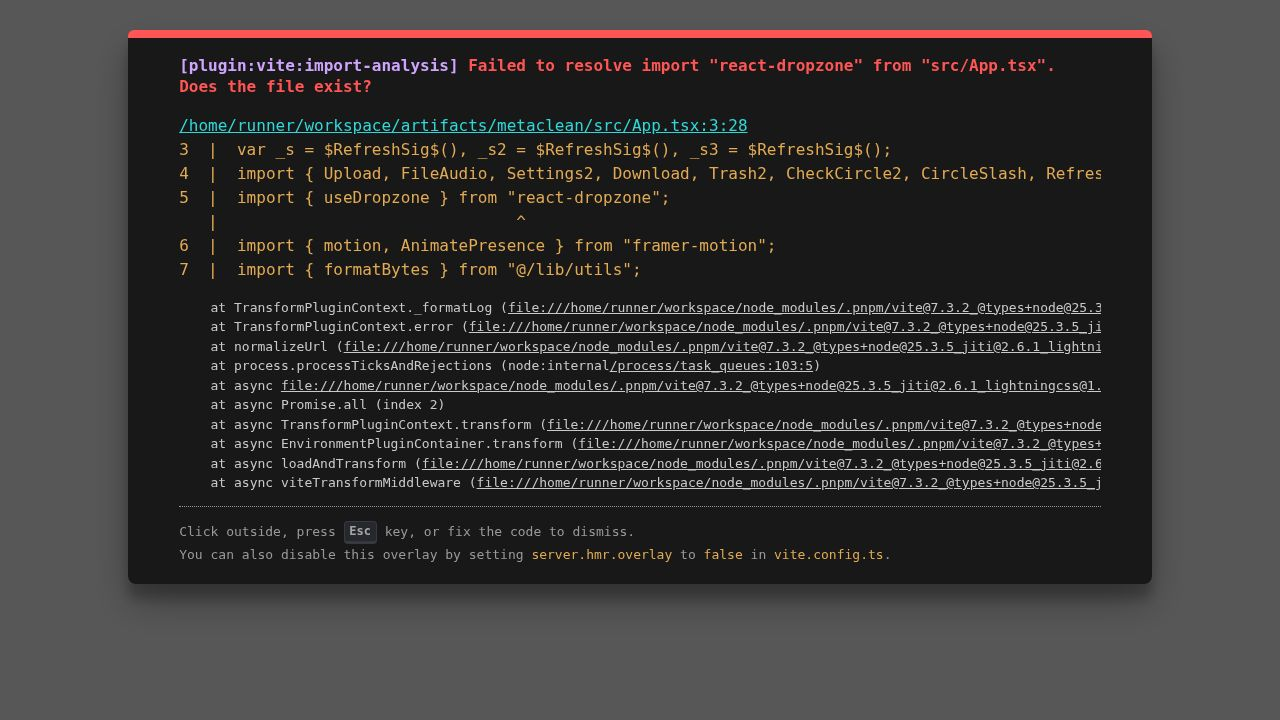
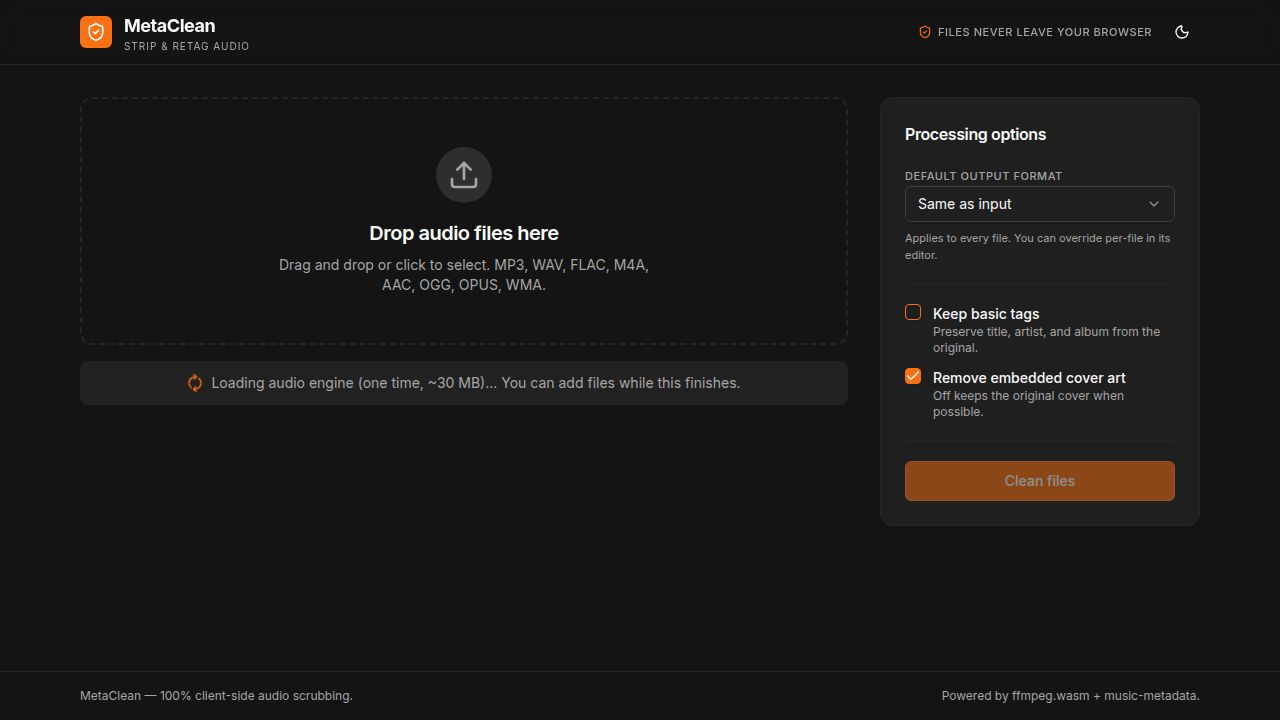
Serve audio engine locally for faster loading times
Updates package.json to include @user/core, adds scripts to copy ffmpeg files to the public directory, and modifies ffmpeg.ts to serve these files locally instead of from unpkg.

Replit-Commit-Author: Agent
Replit-Commit-Session-Id: 36de9a01-7810-4d73-9e41-3d7a48871136
Replit-Commit-Checkpoint-Type: full_checkpoint
Replit-Commit-Event-Id: a74d40dd-1d9e-4b38-b65d-4171ad2eed7c
Replit-Commit-Screenshot-Url: https://storage.googleapis.com/screenshot-production-us-central1/039e52b5-04ed-4d23-a232-9a322d761c58/36de9a01-7810-4d73-9e41-3d7a48871136/hHobfFM
Replit-Helium-Checkpoint-Created: true

diff --git a/artifacts/metaclean/src/lib/ffmpeg.ts b/artifacts/metaclean/src/lib/ffmpeg.ts
@@ -24,7 +24,9 @@ export const getFFmpeg = async (
 
   if (!loadPromise) {
     loadPromise = (async () => {
-      const baseURL = "https://unpkg.com/@ffmpeg/core@0.12.10/dist/umd";
+      // Serve ffmpeg-core from our own origin (vite public/) — much faster than unpkg
+      // and avoids the cross-origin slow-path entirely. Cached aggressively after first load.
+      const baseURL = `${import.meta.env.BASE_URL}ffmpeg`;
       await ffmpeg!.load({
         coreURL: await toBlobURL(`${baseURL}/ffmpeg-core.js`, "text/javascript"),
         wasmURL: await toBlobURL(`${baseURL}/ffmpeg-core.wasm`, "application/wasm"),